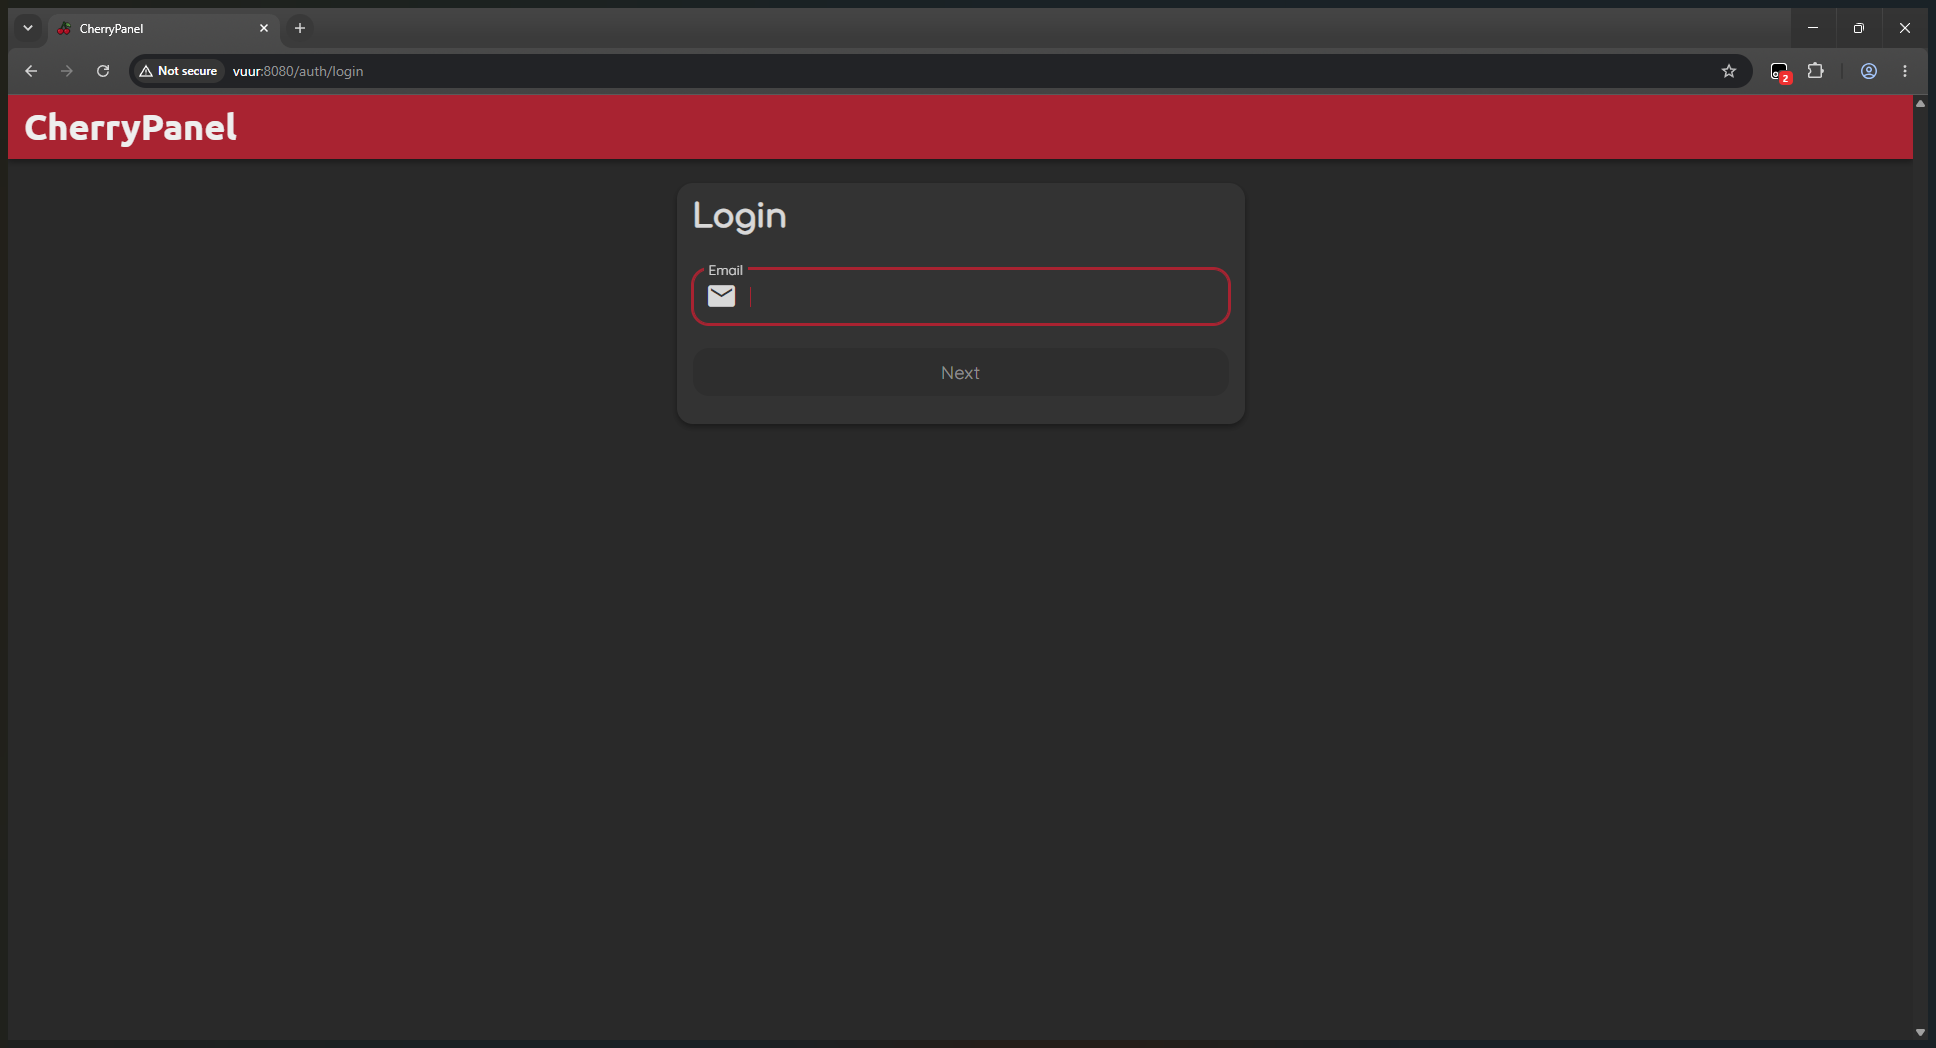
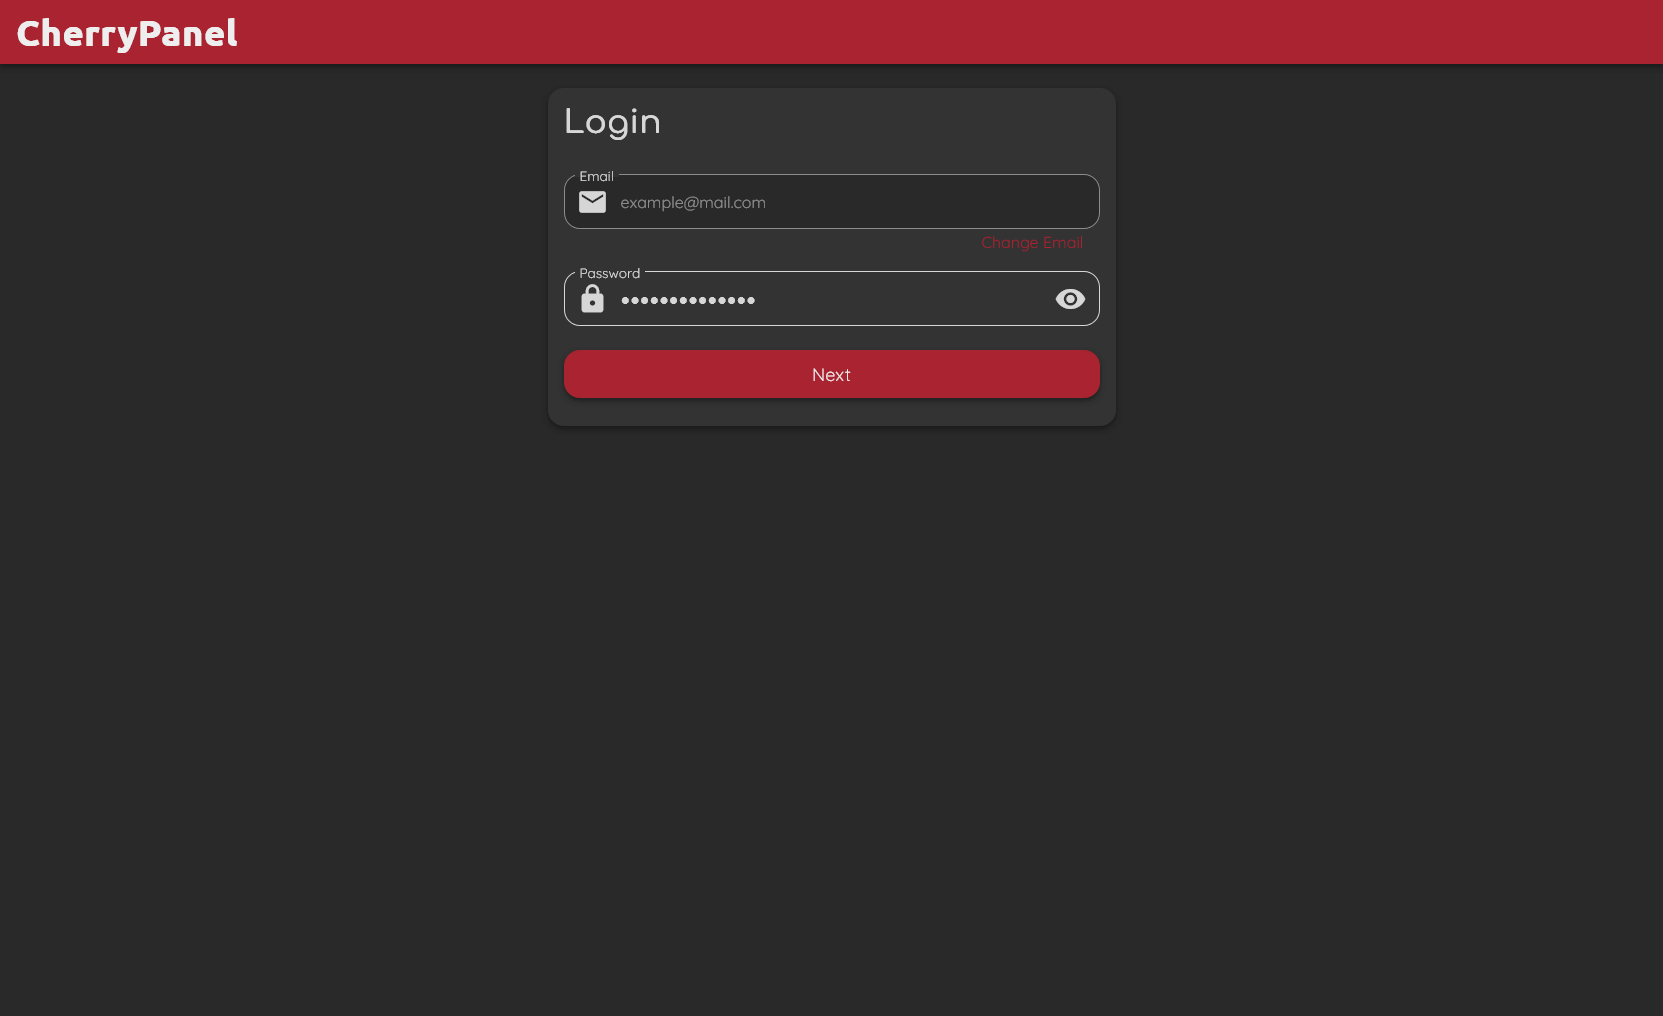
docs: replace screenshots with correct ones, add console screenshot
- dashboard.png: actual dashboard with server cards + player counts
- console.png: server console page with player count widget
- login.png: login page (replaces old version)
- Remove login_email.png (replaced by login.png)
- Update README table to show all 3 screenshots

Changed region(s): [[0.0, 0.0, 1.0, 0.1526], [0.3373, 0.1831, 0.6747, 0.3967]]

diff --git a/README.md b/README.md
@@ -22,10 +22,12 @@
   <tr>
     <td align="center"><b>Dashboard</b></td>
     <td align="center"><b>Server Console</b></td>
+    <td align="center"><b>Login</b></td>
   </tr>
   <tr>
     <td><img src="screenshots/dashboard.png" alt="CherryPanel Dashboard — real-time player count, performance chart, server cards" /></td>
-    <td><img src="screenshots/login_email.png" alt="CherryPanel Login" /></td>
+    <td><img src="screenshots/console.png" alt="CherryPanel Console — player count widget, start/stop/kill buttons" /></td>
+    <td><img src="screenshots/login.png" alt="CherryPanel Login page" /></td>
   </tr>
 </table>
 
@@ -205,7 +207,8 @@ client/frontend/src/
     └── manifest.json              # Default mode: dark, color: #A92331
 screenshots/
 ├── dashboard.png                  # Dashboard with player counts and performance chart
-└── login_email.png                # Login page
+├── console.png                    # Server console with player count widget and action buttons
+└── login.png                      # Login page
 ```
 
 ---
